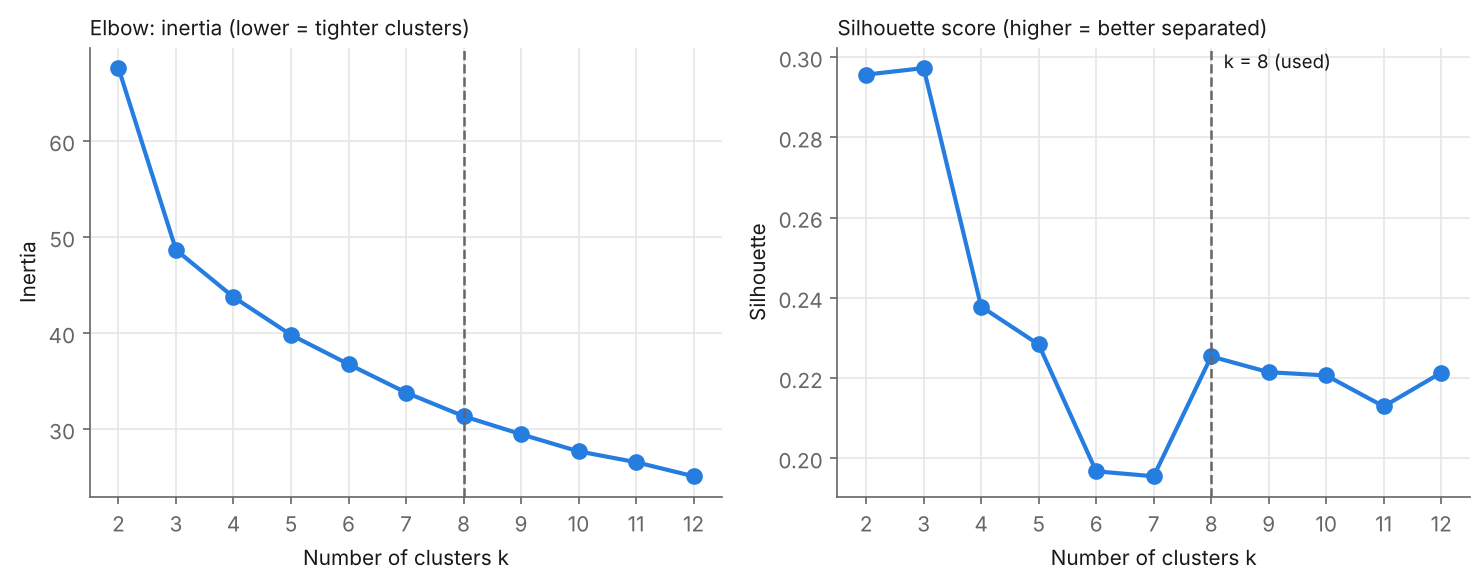
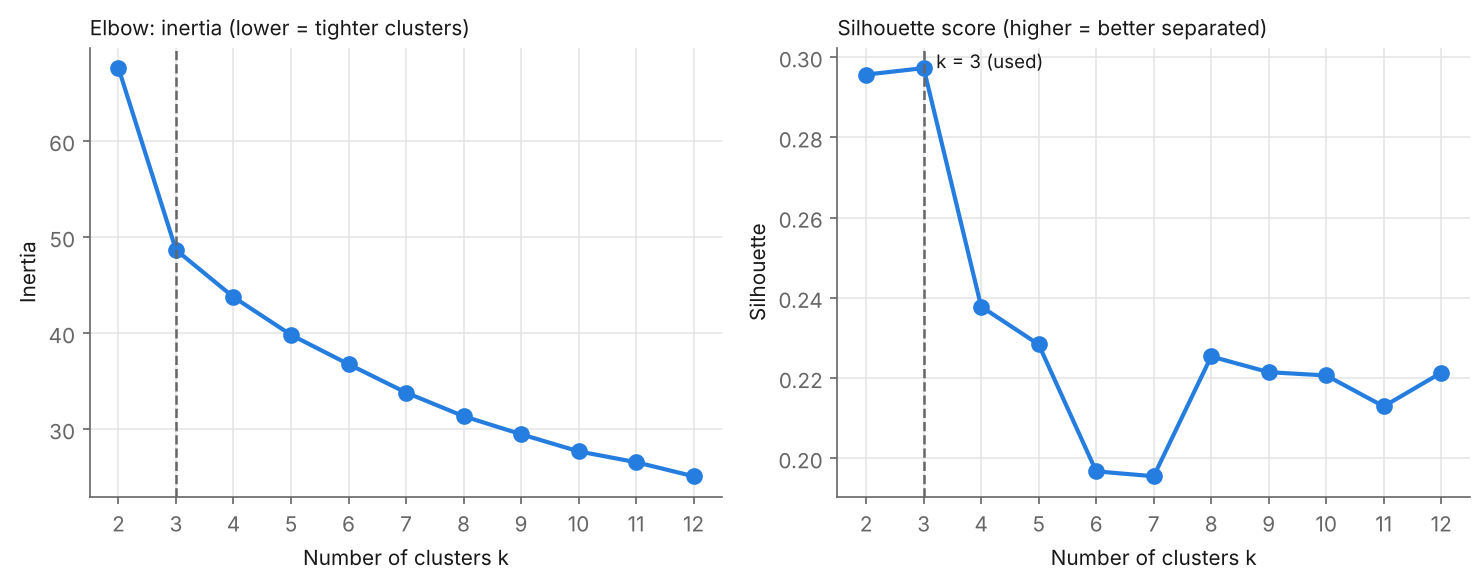
Use k=3 as the main clustering result
Both the elbow and the silhouette score point to k=3, so it is now the
main clustering. k=8 stays as a finer sector-level view: it sets the
order of stocks inside each k=3 block in the heatmap.

Claude-Session: https://claude.ai/code/session_01XPfL5Cwc5V6RgP1eW7UzhW

Changed region(s): [[0.8059, 0.0923, 0.8989, 0.1231], [0.6199, 0.0923, 0.7129, 0.1231]]

diff --git a/src/clustering.py b/src/clustering.py
@@ -147,12 +147,15 @@ def plot_choose_k(scores, chosen_k, filepath):
     plt.close(fig)
 
 
-def plot_clustered_heatmap(correlations, labels, sectors, filepath):
+def plot_clustered_heatmap(correlations, labels, sectors, filepath, fine_labels=None):
     """
     Residual-return correlation matrix with stocks ordered by cluster.
     Stocks that move together form blocks along the diagonal.
+    Lines mark the main clusters; inside each one, stocks are ordered by the
+    finer clustering (if given) so smaller blocks are visible too.
     """
-    order = sorted(labels.index, key=lambda t: (labels[t], sectors[t], t))
+    fine = fine_labels if fine_labels is not None else labels
+    order = sorted(labels.index, key=lambda t: (labels[t], fine[t], sectors[t], t))
     matrix = correlations.loc[order, order].values.copy()
     np.fill_diagonal(matrix, np.nan)  # self-correlation (1.0) would dominate the scale
     limit = np.nanmax(np.abs(matrix))
@@ -190,7 +193,7 @@ def plot_clustered_heatmap(correlations, labels, sectors, filepath):
 # ---------------------------------------------------------------------------
 
 def run_clustering(residuals, cutoff, dev_pairs, tables_dir, figures_dir,
-                   k=config.N_CLUSTERS, coarse_k=config.N_CLUSTERS_COARSE,
+                   k=config.N_CLUSTERS, fine_k=config.N_CLUSTERS_FINE,
                    sectors=config.SECTORS):
     """Stage 6: choose k, cluster, compare with sectors, save tables and figures."""
     correlations = residual_correlations(residuals, cutoff)
@@ -200,7 +203,7 @@ def run_clustering(residuals, cutoff, dev_pairs, tables_dir, figures_dir,
     plot_choose_k(scores, k, figures_dir / "cluster_choose_k.png")
 
     labels = {}
-    for kk in (coarse_k, k):
+    for kk in (k, fine_k):
         raw, _ = fit_kmeans(correlations, kk)
         labels[kk] = renumber_by_sector(raw, sectors)
 
@@ -208,7 +211,7 @@ def run_clustering(residuals, cutoff, dev_pairs, tables_dir, figures_dir,
     table.to_csv(tables_dir / "clusters.csv")
 
     plot_clustered_heatmap(correlations, labels[k], sectors,
-                           figures_dir / "cluster_heatmap.png")
+                           figures_dir / "cluster_heatmap.png", fine_labels=labels[fine_k])
 
     by_cluster = lead_lag_by_cluster(dev_pairs, labels[k])
     by_cluster.to_csv(tables_dir / "lead_lag_by_cluster.csv", index=False)

diff --git a/src/config.py b/src/config.py
@@ -141,10 +141,11 @@ TREE_DEPTHS = [1, 2, 3, 4, 6, 8, 12, 16]
 # Set this from the depth curve: the depth with the best validation accuracy.
 TREE_MAX_DEPTH = 1
 
-# K-means clustering of stocks (clustering.py). Silhouette is highest at
-# k = 3 (broad style groups) and has a second peak at k = 8 (sector level).
-N_CLUSTERS = 8
-N_CLUSTERS_COARSE = 3
+# K-means clustering of stocks (clustering.py). Both the elbow and the
+# silhouette score point to k = 3, so that is the main result. k = 8 (a
+# smaller second silhouette peak) is kept as a finer, sector-level view.
+N_CLUSTERS = 3
+N_CLUSTERS_FINE = 8
 
 # ---------------------------------------------------------------------------
 # File paths
